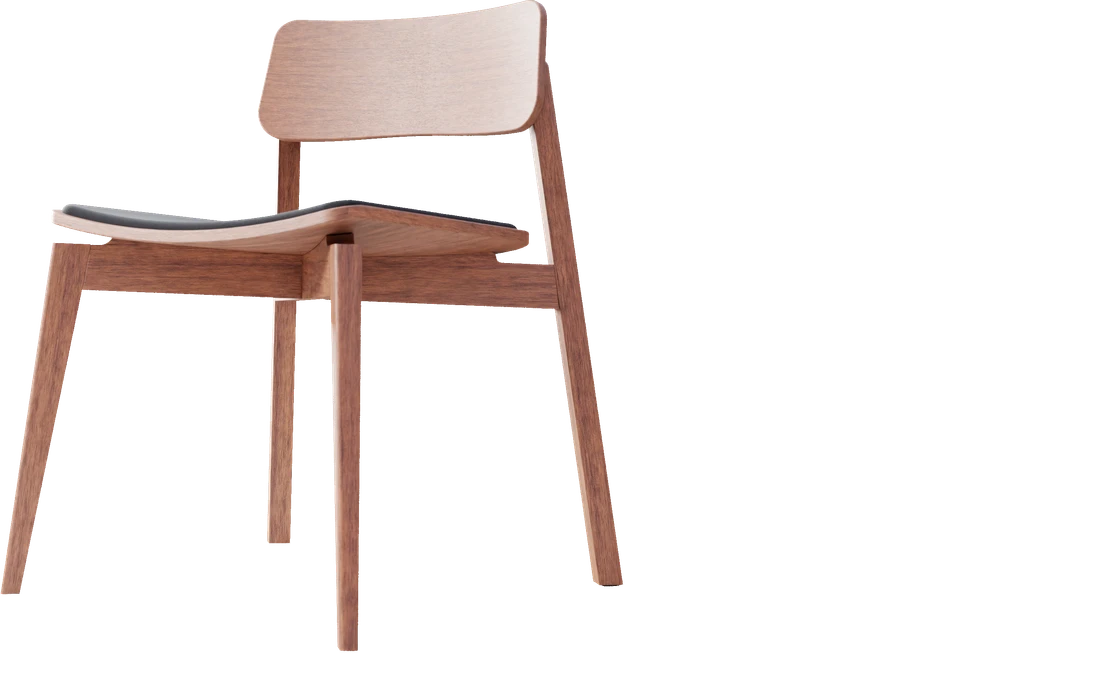
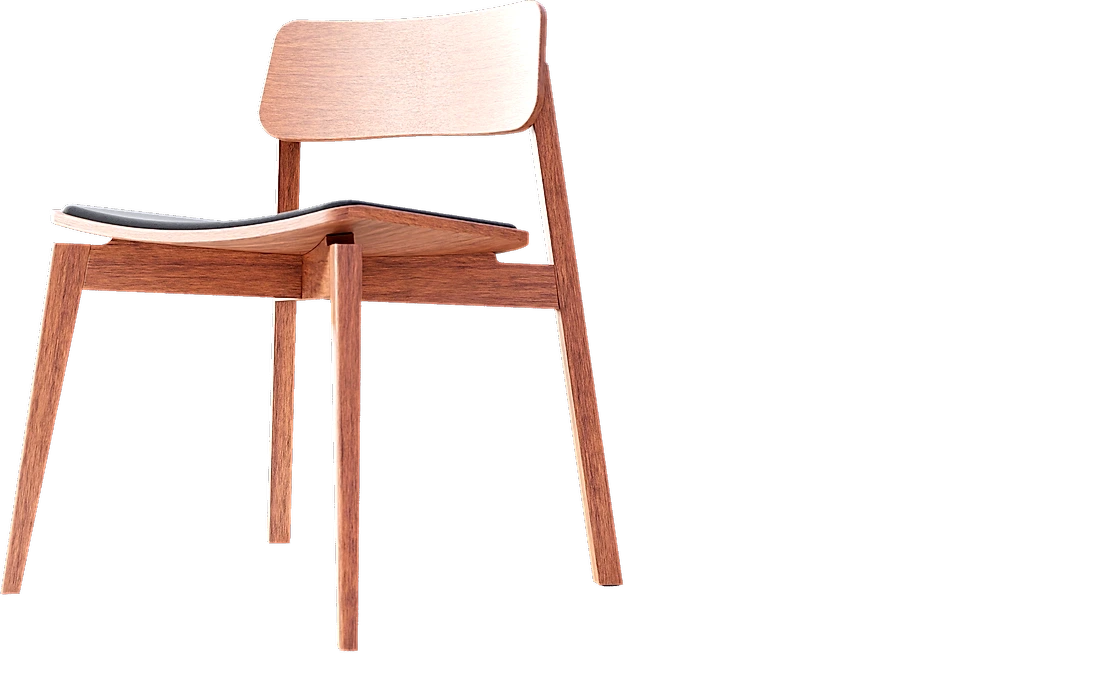
Shift Hero chair/glow further right and boost image contrast
Increase contrast, saturation, and sharpness on the chair render so it
reads as a heroic centerpiece rather than a flat product photo.

Changed region(s): [[0.0, 0.0, 0.5873, 0.9327]]

diff --git a/components/site/Hero.tsx b/components/site/Hero.tsx
@@ -5,11 +5,11 @@ export function Hero() {
     <section className="dot-grid relative flex min-h-[85vh] flex-col justify-center overflow-hidden px-6 sm:px-10 lg:px-16 2xl:px-24">
       <div
         aria-hidden="true"
-        className="pointer-events-none absolute top-1/2 right-[-9%] h-[560px] w-[560px] -translate-y-1/2 rounded-full bg-[radial-gradient(circle,rgba(255,106,0,0.75)_0%,rgba(255,106,0,0.35)_45%,rgba(255,106,0,0)_72%)] blur-[70px]"
+        className="pointer-events-none absolute top-1/2 right-[-14%] h-[560px] w-[560px] -translate-y-1/2 rounded-full bg-[radial-gradient(circle,rgba(255,106,0,0.75)_0%,rgba(255,106,0,0.35)_45%,rgba(255,106,0,0)_72%)] blur-[70px]"
       />
       <div
         aria-hidden="true"
-        className="pointer-events-none absolute top-[42%] right-[-1%] h-[220px] w-[220px] -translate-y-1/2 rounded-full bg-[#ff7a1a] opacity-70 blur-[60px]"
+        className="pointer-events-none absolute top-[42%] right-[-6%] h-[220px] w-[220px] -translate-y-1/2 rounded-full bg-[#ff7a1a] opacity-70 blur-[60px]"
       />
       <div
         aria-hidden="true"
@@ -22,7 +22,7 @@ export function Hero() {
         rotate={-4}
         duration={11}
         opacity={0.95}
-        className="right-[-13%] bottom-0 hidden w-[660px] xl:block 2xl:w-[880px]"
+        className="right-[-18%] bottom-0 hidden w-[660px] xl:block 2xl:w-[880px]"
       />
 
       <div className="relative mx-auto w-full max-w-5xl 2xl:max-w-7xl">